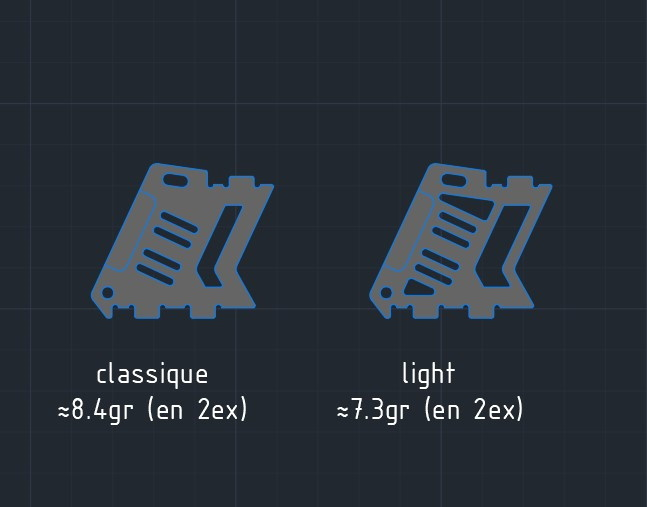
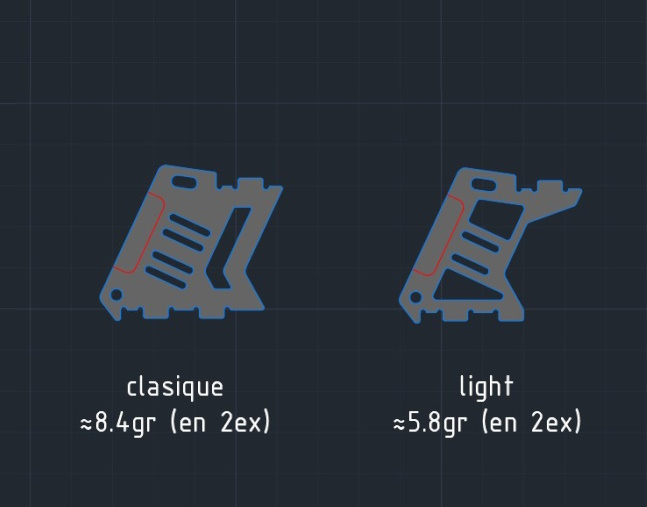
updates

diff --git a/README.md b/README.md
@@ -66,8 +66,8 @@ The JeNo is also available in 3" and 3.5" versions, which can be found on [this 
 | **Camera plates** | 3 mm | 
 | **Motors mounting** | 16 mm | 
 | **Camera** | 20 mm (DJI), Micro, Nano. Clear FOV. Ajustable.
-| **Main stack** | 30.5 mm x 30.5 mm et 20 mm x 20 mm | 
-| **Back stack** | 20 mm x 20 mm et 25 .5 x 25.5 mm | 
+| **Main stack** | 30.5 mm x 30.5 mm and 20 mm x 20 mm | 
+| **Back stack** | 20 mm x 20 mm and 25 .5 x 25.5 mm | 
 | **Supported VTX** | Analogic, DJI Vista, DJI Air Unit O3, WalkSnail, HDZero… | 
 | **Strap passage** | Yes | 
 | **XT60 passage** | Yes (front and back) + passage for a zip tie | 
@@ -100,7 +100,7 @@ This concerns the core of the frame (bottom, middle, top plates, and arms key).
 _**Priority :** In the Lightweight version, the carbon is more "patterned," making it slightly more fragile._
 
 * **Classic :** For Freestyle flying, behavior and robustness are prioritized, but the **propellers will be visible in the FOV**.
-* **Lightweight :** 1g lighter than the Classic plates (0.5g per plate).
+* **Lightweight :** 2.7g lighter than the Classic plates (1.35g per plate).
 * **Cine :** Uses elongated camera plates to remove propellers from the FOV (set to Wide with the O3).
 * **Ciné Soft :** The version without soft mounting allows for more adjustment of the camera position. In the case of using the Air Unit O3, the quad must be properly tuned to avoid vibrations in video recording. The soft mounting version limits vibrations that could reach the camera.
 
